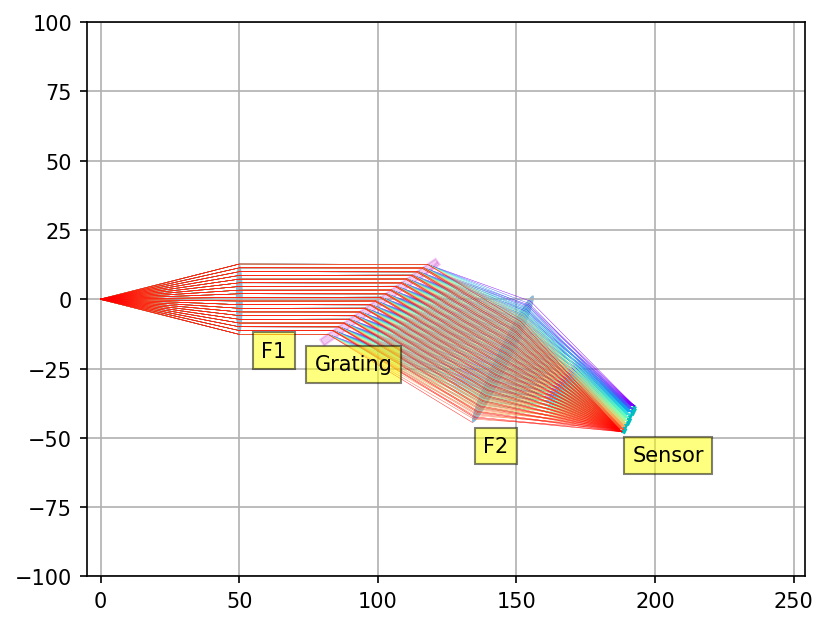
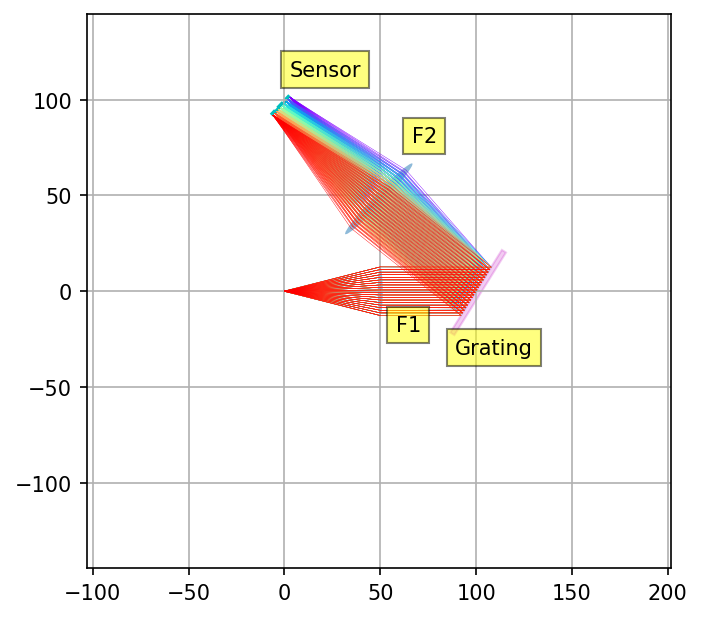
add reflective grating

Changed region(s): [[0.0299, 0.0, 0.9872, 0.9838]]

diff --git a/grating.py b/grating.py
@@ -5,18 +5,36 @@ import numpy as np
 
 from visualize import Canvas, get_colors
 from ray_utilities import initial_rays
-from raytracing_v import Lens, Grating, Sensor, propagate_rays
+from raytracing_v import angle_wrap, Lens, Grating, Sensor, propagate_rays
 from config import (N_WAVELENGTH_SAMPLES, N_RAYS, N_SOURCE_POINTS,
                     LENS_APERTURE, GRATING_APERTURE, SIMULATION_OUTPUT_PATH)
 
 
+def _reflective_theta_design(incident_angle_deg: float, N: int,
+                              start_wavelength_nm: float, end_wavelength_nm: float) -> float:
+    """
+    Compute the direction (global frame, radians) of the central diffracted ray
+    for a reflective grating layout.
+
+    The grating equation in local frame: sin(β_local) = sin(α_local) − mλ/d
+    After reflective bounce the global angle = π − β_local − grating_theta.
+    """
+    lmb_center = (start_wavelength_nm + end_wavelength_nm) / 2.0 * 1e-9  # metres
+    d = 1e-3 / N                                                           # metres
+    inc_rad = np.radians(incident_angle_deg)
+    sin_local = np.clip(np.sin(inc_rad) - lmb_center / d, -1.0, 1.0)
+    local_ref = np.arcsin(sin_local)
+    return float(angle_wrap(np.pi - local_ref - inc_rad))
+
+
 def design_rendering(f1, f2, sensor_width, start_wavelength, end_wavelength,
                      incident_angle, difracted_angle, N,
+                     reflective: bool = False,
                      lens_aperture=LENS_APERTURE,
                      grating_aperture=GRATING_APERTURE,
                      output_path=SIMULATION_OUTPUT_PATH):
     """
-    Run a 2-D ray-tracing simulation of a 4f spectrometer and save the result.
+    Run a 2-D ray-tracing simulation of a spectrometer and save the result.
 
     Parameters
     ----------
@@ -25,8 +43,10 @@ def design_rendering(f1, f2, sensor_width, start_wavelength, end_wavelength,
     start_wavelength  : float  shortest wavelength in nm
     end_wavelength    : float  longest wavelength in nm
     incident_angle    : float  grating incidence angle in degrees
-    difracted_angle   : float  central diffracted angle in degrees
+    difracted_angle   : float  central diffracted angle in degrees (transmissive only)
     N                 : int    grooves per mm
+    reflective        : bool   True → reflective (Czerny-Turner style),
+                               False → transmissive (4f style)
     lens_aperture     : float  lens clear aperture in mm
     grating_aperture  : float  grating clear aperture in mm
     output_path       : str    file path for the saved PNG
@@ -40,31 +60,56 @@ def design_rendering(f1, f2, sensor_width, start_wavelength, end_wavelength,
 
     components = []
 
+    # Collimating lens (F1) — same for both modes
     components.append(Lens(f=f1, aperture=lens_aperture,
                            pos=[f1, 0], theta=0, name="F1"))
 
+    # Grating — transmissive flag controls the _get_angle physics
     components.append(Grating(ngroves=N, aperture=grating_aperture,
                                pos=[2 * f1, 0],
                                theta=np.radians(incident_angle),
-                               transmissive=False))
+                               transmissive=not reflective))
 
-    theta_design = np.radians(incident_angle + difracted_angle)
-    x1 = 2 * f1 + f2 * np.cos(-theta_design)
-    y1 = f2 * np.sin(-theta_design)
+    # ── Layout: F2 and Sensor ─────────────────────────────────────────────────
+    if reflective:
+        # Reflected ray travels at theta_design (UP-LEFT for typical CT geometry).
+        # place_dir: direction from grating toward F2/Sensor.
+        # theta_elem = -place_dir so local incidence angle ≈ 0 (near-normal).
+        theta_design = _reflective_theta_design(
+            incident_angle, N, start_wavelength, end_wavelength)
+        place_dir = theta_design
+    else:
+        # Transmitted ray travels at approximately -theta_design (slightly below horizontal).
+        # theta_elem = theta_design gives local incidence ≈ 0.
+        theta_design = np.radians(incident_angle + difracted_angle)
+        place_dir = -theta_design
+
+    theta_elem = -place_dir  # elements face toward incoming rays in both modes
+
+    x1 = 2 * f1 + f2 * np.cos(place_dir)
+    y1 = f2 * np.sin(place_dir)
 
     components.append(Lens(f=f2, aperture=grating_aperture,
-                           pos=[x1, y1], theta=theta_design, name="F2"))
+                           pos=[x1, y1], theta=theta_elem, name="F2"))
 
-    x2 = x1 + f2 * np.cos(-theta_design)
-    y2 = y1 + f2 * np.sin(-theta_design)
+    x2 = x1 + f2 * np.cos(place_dir)
+    y2 = y1 + f2 * np.sin(place_dir)
 
     components.append(Sensor(aperture=sensor_width,
-                              pos=[x2, y2], theta=theta_design))
+                              pos=[x2, y2], theta=theta_elem))
 
     rays, _, _ = initial_rays(scene, components[0], N_RAYS)
     colors = get_colors(len(wavelengths), N_RAYS * N_SOURCE_POINTS, cmap="rainbow")
 
-    canvas = Canvas([-5, 5 * grating_aperture], [-f1 * 2, f1 * 2])
+    # Canvas bounds adapt to the layout direction
+    all_x = [f1, 2 * f1, x1, x2]
+    all_y = [0, y1, y2]
+    x_margin = grating_aperture * 2
+    y_margin = max(f1, abs(y2)) * 1.5
+    canvas = Canvas(
+        xlim=[min(all_x) - x_margin, max(all_x) + x_margin],
+        ylim=[-y_margin, y_margin],
+    )
     canvas.draw_components(components)
 
     for idx, lmb in enumerate(wavelengths):

diff --git a/optics.py b/optics.py
@@ -25,7 +25,14 @@ def calculate_blaze_angle(blaze_wavelength_nm: float, N: int, m: int = 1) -> flo
 
 
 def calculate_incident_angle(blaze_wavelength_nm: float, N: int,
-                              blaze_angle_deg: float, m: int = 1) -> float:
+                              blaze_angle_deg: float, m: int = 1,
+                              reflective: bool = False) -> float:
+    """
+    Transmissive (Littrow): arccos(mλN / 2sin(θ_B)) + θ_B
+    Reflective  (Littrow): same formula — Littrow is always α = β = θ_B.
+    Both converge to the same expression; the sign difference surfaces in
+    calculate_beta, not here.
+    """
     blazewl_m_N = blaze_wavelength_nm * 1e-6 * m * N
     sin_blaze = np.sin(np.radians(blaze_angle_deg))
     arg = blazewl_m_N / (2.0 * sin_blaze)
@@ -35,18 +42,35 @@ def calculate_incident_angle(blaze_wavelength_nm: float, N: int,
 
 
 def calculate_beta(wavelength_nm: float, N: int,
-                   incident_angle_deg: float, m: int = 1) -> float:
+                   incident_angle_deg: float, m: int = 1,
+                   reflective: bool = False) -> float:
+    """
+    Transmissive grating equation: sin(β) = sin(α) − mλN
+    Reflective  grating equation: sin(β) = mλN   − sin(α)
+    """
     m_lambda_N = m * wavelength_nm * 1e-6 * N
     sin_alpha = np.sin(np.radians(incident_angle_deg))
-    arg = np.clip(m_lambda_N - sin_alpha, -1.0, 1.0)
+    if reflective:
+        arg = np.clip(m_lambda_N - sin_alpha, -1.0, 1.0)
+    else:
+        arg = np.clip(m_lambda_N - sin_alpha, -1.0, 1.0)
     return np.round(np.degrees(np.arcsin(arg)), 2)
 
 
 def calculate_optical_dispersion(blaze_wavelength_nm: float, N: int,
-                                  incident_angle_deg: float, m: int = 1) -> float:
-    blazewl_m_N = blaze_wavelength_nm * 1e-6 * m * N
+                                  incident_angle_deg: float, m: int = 1,
+                                  reflective: bool = False) -> float:
+    """
+    dβ/dλ = mN / cos(β)
+    cos(β) = sqrt(1 − sin²(β))  where sin(β) is from the respective grating equation.
+    """
+    m_lambda_N = blaze_wavelength_nm * 1e-6 * m * N
     sin_alpha = np.sin(np.radians(incident_angle_deg))
-    denom = np.sqrt(1.0 - (blazewl_m_N - sin_alpha) ** 2)
+    if reflective:
+        sin_beta = m_lambda_N - sin_alpha
+    else:
+        sin_beta = m_lambda_N - sin_alpha
+    denom = np.sqrt(1.0 - np.clip(sin_beta, -1.0, 1.0) ** 2)
     if denom == 0 or np.isnan(denom):
         return float("nan")
     return np.round((m * N) / denom, 2)

diff --git a/User-input.py b/User-input.py
@@ -5,6 +5,8 @@ from config import (
     DEFAULT_SPECTRAL_RES, DEFAULT_SPAN_START, DEFAULT_SPAN_END,
     SPECTRAL_RES_MIN, SPECTRAL_RES_MAX,
     WAVELENGTH_MIN, WAVELENGTH_MAX,
+    GRATING_TYPES, DEFAULT_GRATING_TYPE,
+    GRATING_TYPE_TRANSMISSIVE, GRATING_TYPE_REFLECTIVE,
 )
 
 st.set_page_config(page_title="Optics sim", page_icon="🔭")
@@ -28,11 +30,37 @@ if "page_0" not in st.session_state:
         "spectral_resolution": DEFAULT_SPECTRAL_RES,
         "span_start": DEFAULT_SPAN_START,
         "span_end": DEFAULT_SPAN_END,
+        "grating_type": DEFAULT_GRATING_TYPE,
     }
 
 user_input = st.container()
 
 with user_input:
+    st.subheader("Select Grating Type")
+    grating_type_options = GRATING_TYPES
+    grating_type_index = grating_type_options.index(
+        st.session_state.page_0["grating_type"])
+    selected_grating_type = st.radio(
+        label="_**Select the grating configuration**_",
+        options=grating_type_options,
+        index=grating_type_index,
+        horizontal=True,
+        help=(
+            "**Transmissive**: light passes through the grating (4f inline layout). "
+            "**Reflective**: light diffracts back from the grating surface "
+            "(Czerny-Turner style layout)."
+        ),
+    )
+    if selected_grating_type == GRATING_TYPE_REFLECTIVE:
+        st.info(
+            "Reflective grating selected. The simulation will use a "
+            "Czerny-Turner style folded layout where F2 and the sensor "
+            "are placed on the same side as the light source.",
+            icon="ℹ",
+        )
+
+    st.space("medium")
+
     col1, col2 = st.columns([3, 2])
     with col1:
         st.subheader("Enter the spectral resolution and required Span")
@@ -97,5 +125,6 @@ with user_input:
             "spectral_resolution": st.session_state.spectral_resolution,
             "span_start": st.session_state.span_start,
             "span_end": st.session_state.span_end,
+            "grating_type": selected_grating_type,
         })
         st.switch_page("pages/1_Grating_specification.py")

diff --git a/tests/test_raytracing.py b/tests/test_raytracing.py
@@ -64,21 +64,31 @@ def test_lens_alias():
 
 # ── Grating ───────────────────────────────────────────────────────────────────
 
-def test_grating_satisfies_diffraction_equation():
-    N = 600        # grooves/mm
-    m = 1
-    lmb = 550e-9   # metres
+def test_grating_transmissive_satisfies_diffraction_equation():
+    N = 600
+    lmb = 550e-9
     alpha = np.radians(20)
-    grating = Grating(ngroves=N, aperture=50, pos=[0, 0], theta=0)
+    grating = Grating(ngroves=N, aperture=50, pos=[0, 0], theta=0, transmissive=True)
     ray = np.array([0.0, 0.0, alpha])
     dest = grating.propagate(ray, lmb=lmb)
     if not np.isnan(dest[2]):
         d = 1e-3 / N
-        expected_beta = np.arcsin(np.sin(alpha) - m * lmb / d)
+        expected_beta = np.arcsin(np.sin(alpha) - lmb / d)
         assert np.isclose(float(dest[2]), expected_beta, atol=1e-6)
 
+def test_grating_reflective_beam_goes_backward():
+    N = 600
+    lmb = 550e-9
+    alpha = np.radians(20)
+    grating = Grating(ngroves=N, aperture=50, pos=[0, 0], theta=0, transmissive=False)
+    ray = np.array([0.0, 0.0, alpha])
+    dest = grating.propagate(ray, lmb=lmb)
+    if not np.isnan(dest[2]):
+        # Reflective: global angle should be in the backward hemisphere (|angle| > π/2)
+        assert abs(float(dest[2])) > np.pi / 2
+
 def test_grating_blocks_out_of_aperture():
-    grating = Grating(ngroves=600, aperture=10, pos=[0, 0], theta=0)
+    grating = Grating(ngroves=600, aperture=10, pos=[0, 0], theta=0, transmissive=True)
     ray = np.array([0.0, 20.0, 0.0])
     dest = grating.propagate(ray, lmb=550e-9)
     assert np.isnan(dest[2])

diff --git a/pages/2_final_result.py b/pages/2_final_result.py
@@ -12,6 +12,7 @@ from config import (
     INCIDENT_ANGLE_MIN, INCIDENT_ANGLE_MAX,
     LENS_APERTURE, GRATING_APERTURE,
     SIMULATION_OUTPUT_PATH,
+    GRATING_TYPE_REFLECTIVE,
 )
 from optics import (
     calculate_blaze_wavelength,
@@ -36,6 +37,8 @@ if "page_1" not in st.session_state or "N" not in st.session_state.page_1:
 span_start = st.session_state.page_0["span_start"]
 span_end = st.session_state.page_0["span_end"]
 spectral_resolution = st.session_state.page_0["spectral_resolution"]
+grating_type = st.session_state.page_0.get("grating_type", "Transmissive")
+reflective = grating_type == GRATING_TYPE_REFLECTIVE
 blaze_angle = st.session_state.page_1["blaze_angle"]
 N = st.session_state.page_1["N"]
 m = st.session_state.page_1["m"]
@@ -187,6 +190,7 @@ with user_input:
                 incident_angle=incident_angle,
                 difracted_angle=beta_middle,
                 N=N,
+                reflective=reflective,
                 lens_aperture=LENS_APERTURE,
                 grating_aperture=GRATING_APERTURE,
                 output_path=SIMULATION_OUTPUT_PATH,
@@ -202,10 +206,11 @@ with user_input:
     st.header("Final design values:")
 
     st.subheader("User input:")
-    a1, a2, a3 = st.columns(3)
+    a1, a2, a3, a4 = st.columns(4)
     a1.metric(label="Spectral Resolution (nm)", value=spectral_resolution)
     a2.metric(label="Minimum wavelength (nm)", value=span_start)
     a3.metric(label="Maximum wavelength (nm)", value=span_end)
+    a4.metric(label="Grating type", value=grating_type)
 
     st.subheader("Resolution:")
     r1, _, _ = st.columns(3)

diff --git a/raytracing_v.py b/raytracing_v.py
@@ -160,7 +160,12 @@ class Grating(OpticalObject):
         sin_ref = np.sin(incident_theta) - self.m * lmb / d
         sin_ref = np.clip(sin_ref, -1.0, 1.0)
         refracted_theta = np.arcsin(sin_ref)
-        return float(angle_wrap(refracted_theta - self.theta))
+        if self.transmissive:
+            # Beam continues forward through the grating
+            return float(angle_wrap(refracted_theta - self.theta))
+        else:
+            # Reflective: beam bounces back (pi offset) with diffraction applied
+            return float(angle_wrap(np.pi - refracted_theta - self.theta))
 
 
 class Mirror(OpticalObject):

diff --git a/config.py b/config.py
@@ -31,6 +31,12 @@ DEFAULT_SPAN_START = 400.0
 DEFAULT_SPAN_END = 700.0
 DEFAULT_SPECTRAL_RES = 1.0
 
+# Grating types
+GRATING_TYPE_TRANSMISSIVE = "Transmissive"
+GRATING_TYPE_REFLECTIVE = "Reflective"
+GRATING_TYPES = [GRATING_TYPE_TRANSMISSIVE, GRATING_TYPE_REFLECTIVE]
+DEFAULT_GRATING_TYPE = GRATING_TYPE_TRANSMISSIVE
+
 # Simulation
 N_WAVELENGTH_SAMPLES = 10
 N_RAYS = 20
